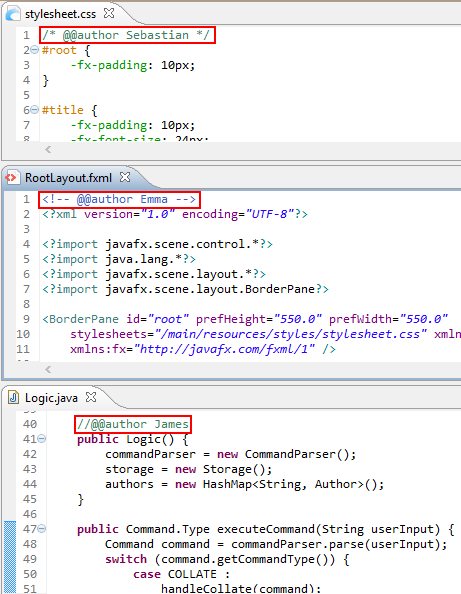
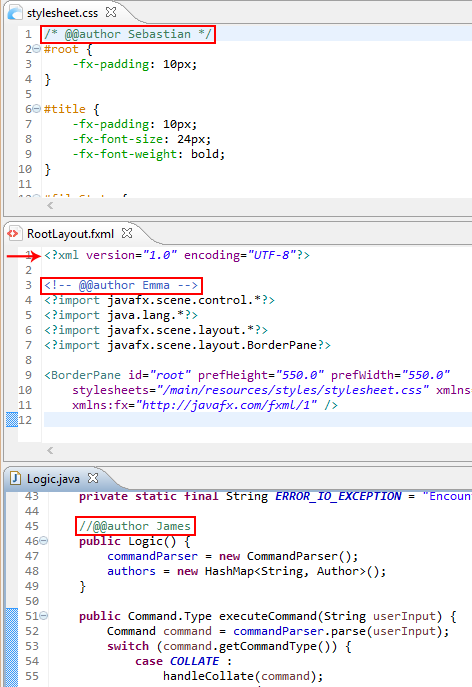
Updated user guide about author tags in fxml files. Resolves #34.

Changed region(s): [[0.0, 0.0, 1.0, 1.0]]

diff --git a/docs/User-Guide.md b/docs/User-Guide.md
@@ -26,7 +26,9 @@ Now that you know what Collate is [about](../README.md), you can follow this gui
 2. **Download Collate**: You can then download `Collate-GUI.jar` from the latest release 
    here: https://github.com/collate/collate/releases
 
-3. **Mark your code with `@@author` tags**: Here are some examples. <br><br>
+3. **Mark your code with `@@author` tags**: Here are some examples.
+   > For `.fxml` files, ensure that the `xml` tag comes before your author tags
+   
    ![author tags](images/user-guide/add-author-tags.png)
 
 4. **Launch Collate** Simply double-click on the `Collate-GUI.jar` file to start Collate. 
